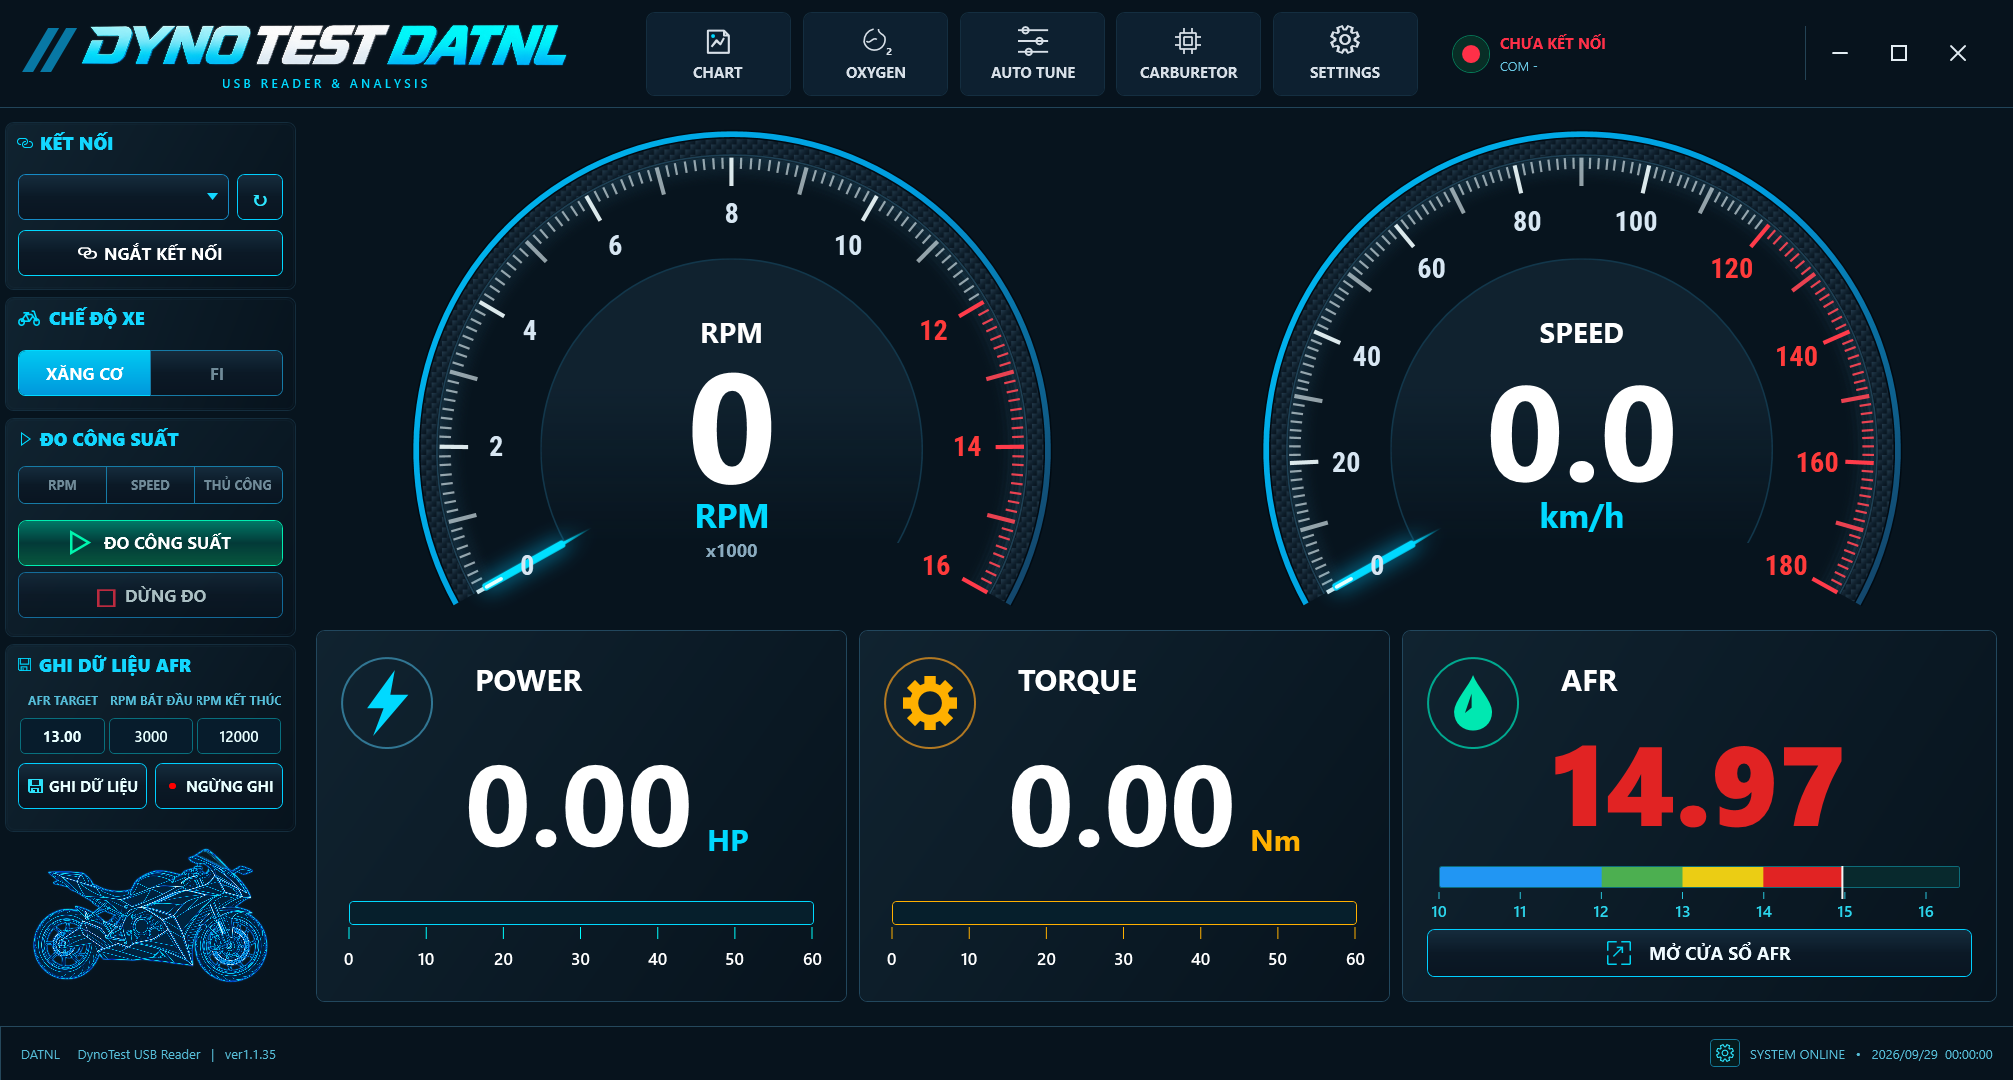
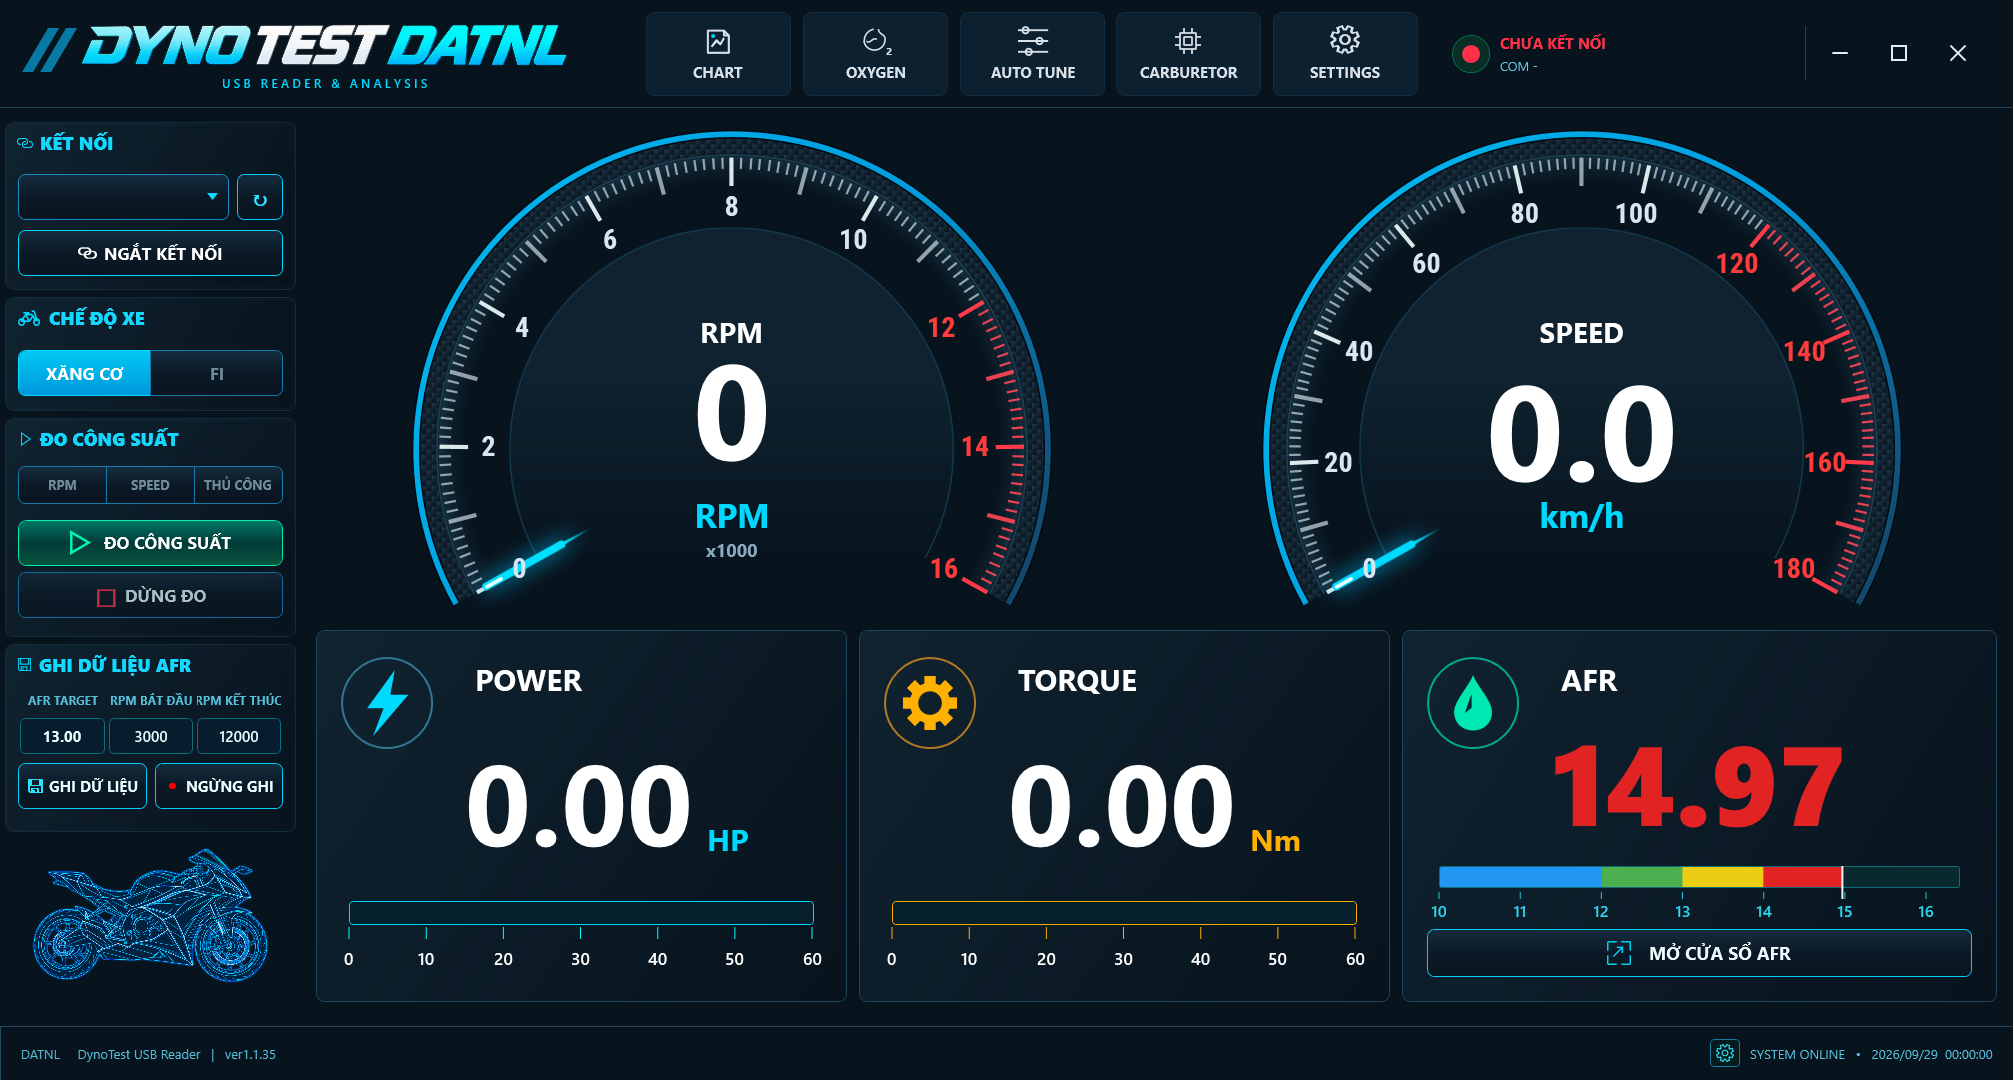
Show enlarged inner hubs and fixed 16000 RPM readout without shrinking

diff --git a/previews/v135/README.md b/previews/v135/README.md
@@ -1,13 +1,8 @@
-# v135 — Ảnh xem trước
+# v135 — Ảnh xem trước từ Windows thực tế
 
-Ảnh từ giao diện WPF thực tế trên Windows. Vòng ngoài, vạch chia và vòng trong dùng chung tâm và chung góc MIN/MAX, không ép chung đáy.
-Giữ kim thanh mỏng bo góc có đuôi vuốt và các chức năng hiện có.
-Kênh cập nhật hiện vẫn là v134, bản v135 đang xem trước.
-
-Số chia được căn theo tâm nét chữ, cùng bán kính và thẳng với vạch tương ứng; bỏ lệch riêng số 0.
-
-Dải theo kim phủ mờ toàn khoảng giữa vòng trong và mép trong vòng ngoài, từ đúng mốc 0, đầu cắt thẳng, không viền đậm.
-
-Nền caro nổi nhẹ xanh đen chỉ nằm trong khe giữa đường viền vạch chia và mép trong vòng ngoài.
-
-Số chia sát vạch hơn; số đo được tự căn theo đường tròn, đã kiểm tra qua 20.000 RPM và có ảnh thực tế 16.000 RPM.
+Vòng ngoài, vạch chia, số chia và vòng trong đồng tâm, cùng góc MIN/MAX. Số chia sát vạch hơn.
+Vòng trong tăng đường kính từ 148 lên 172. Số đo dùng cỡ cố định, không tự co; đã kiểm tra qua 20.000 RPM và có ảnh 16.000 RPM.
+Kim thanh mỏng bo góc có đuôi vuốt; nền vòng trong mờ xuống dưới và cảnh báo redline độc lập.
+Dải chạy theo kim phủ mờ toàn khe đến mép trong vòng ngoài, bắt đầu đúng mốc 0, không nét đậm hoặc đầu bo.
+Nền caro nổi nhẹ xanh đen nằm giữa mép trong vòng ngoài và viền vạch chia.
+Kênh cập nhật hiện vẫn v134; v135 đang xem trước. Giữ nguyên JSON và RUN.
